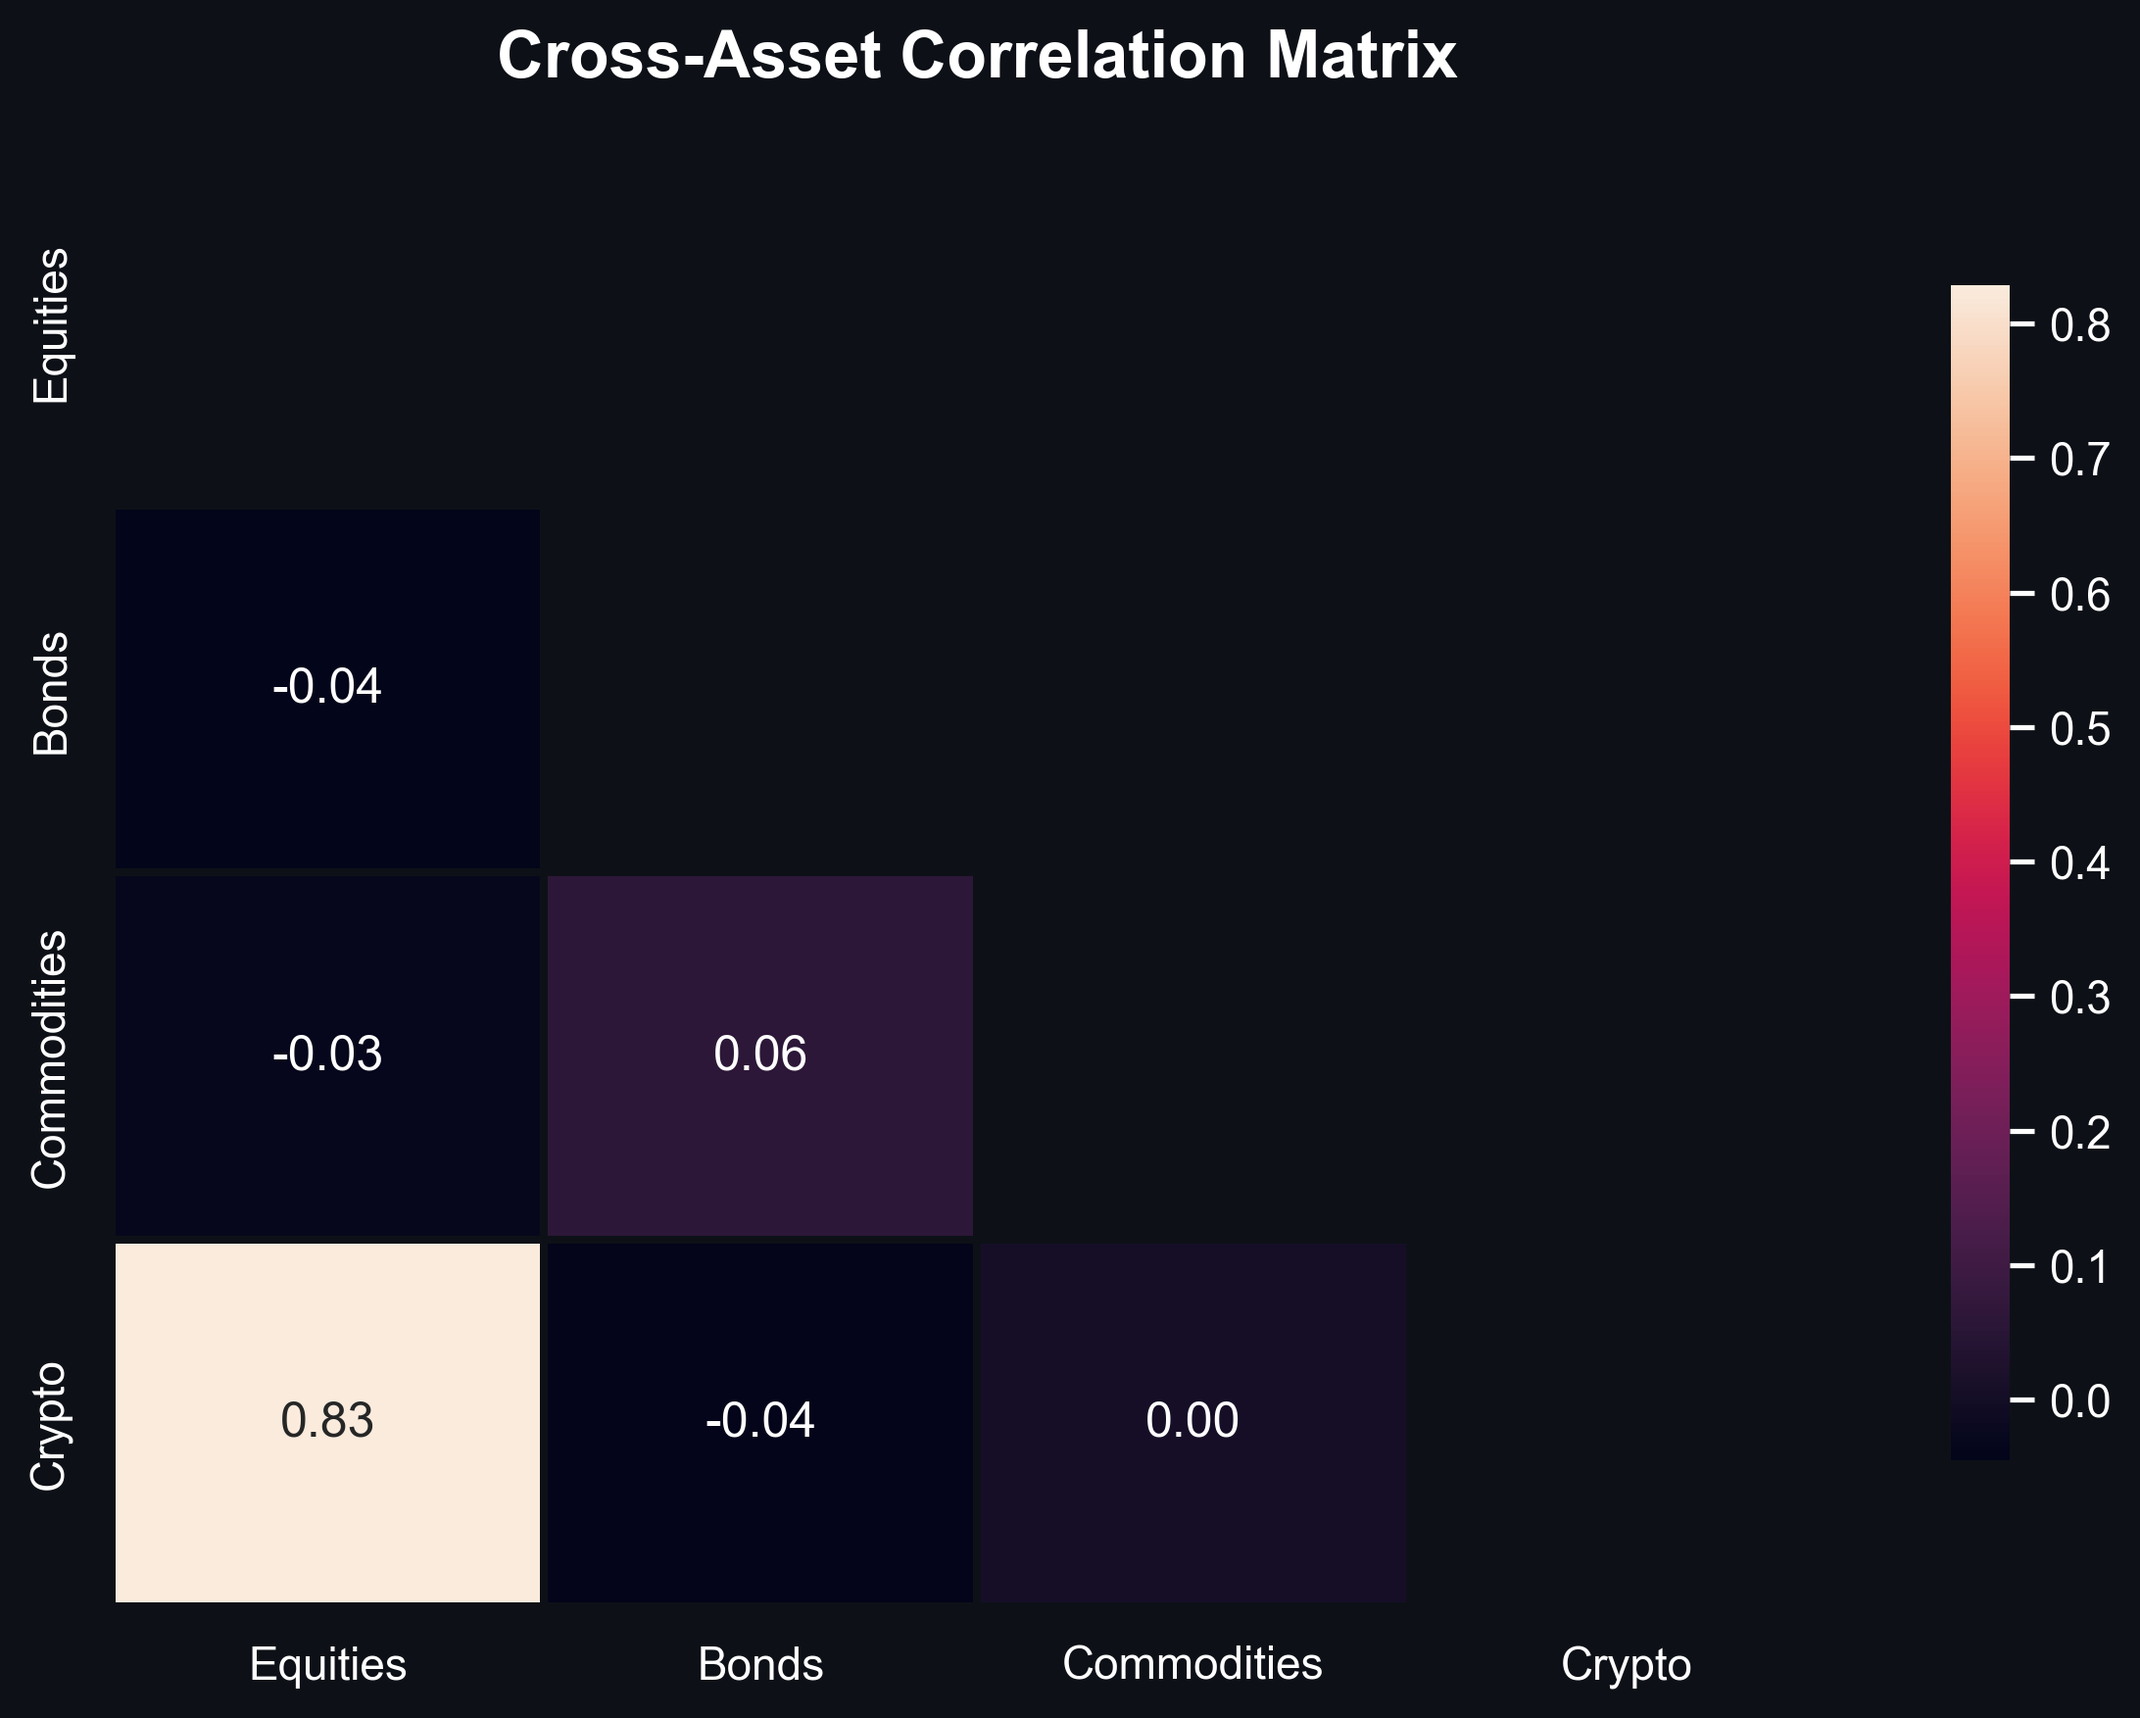
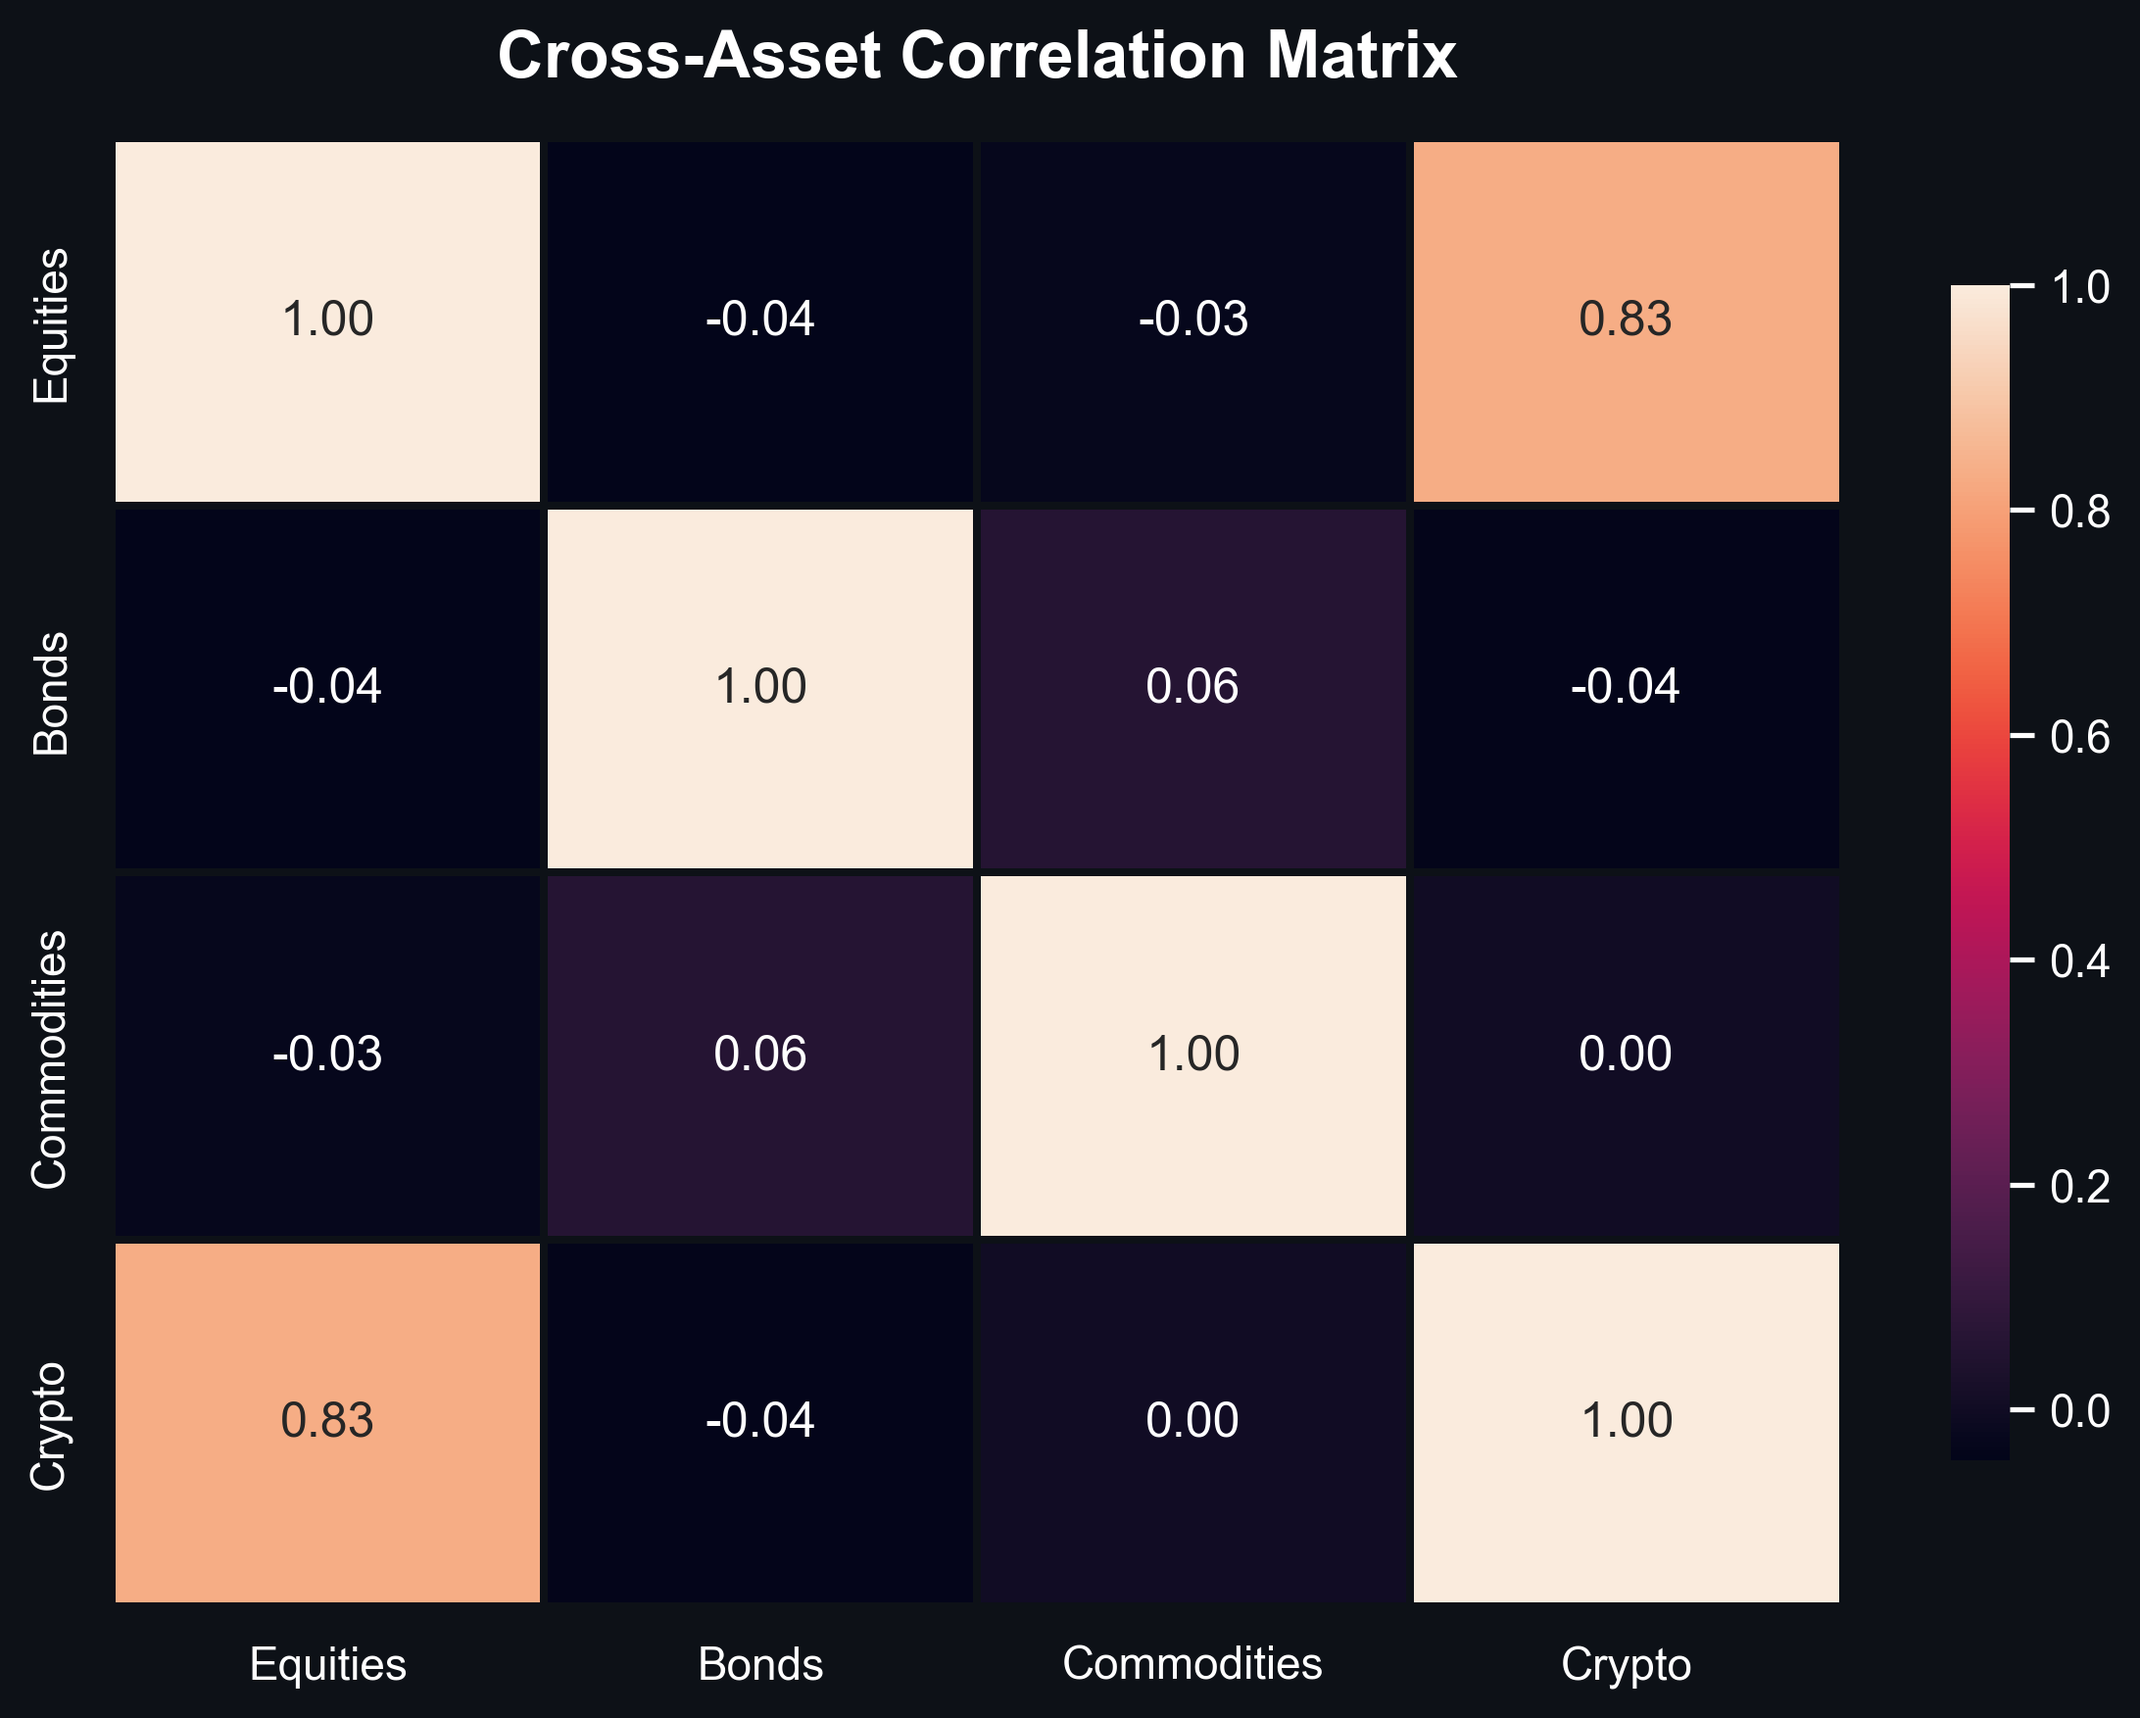
style(visuals): remove triangular mask to render full 4x4 matrix

diff --git a/nexus/utils/visualizer.py b/nexus/utils/visualizer.py
@@ -177,10 +177,7 @@ class NexusVisualizer:
         # Calculate Pearson Correlation
         corr = returns_df.corr()
         
-        # Mask upper triangle
-        mask = np.triu(np.ones_like(corr, dtype=bool))
-        
-        sns.heatmap(corr, mask=mask, cmap="rocket", annot=True, fmt=".2f", 
+        sns.heatmap(corr, cmap="rocket", annot=True, fmt=".2f", 
                     linewidths=1.5, linecolor='#0d1117', cbar_kws={"shrink": .8}, ax=ax)
         
         ax.set_title("Cross-Asset Correlation Matrix", fontsize=16, fontweight='bold', color='white', pad=15)
